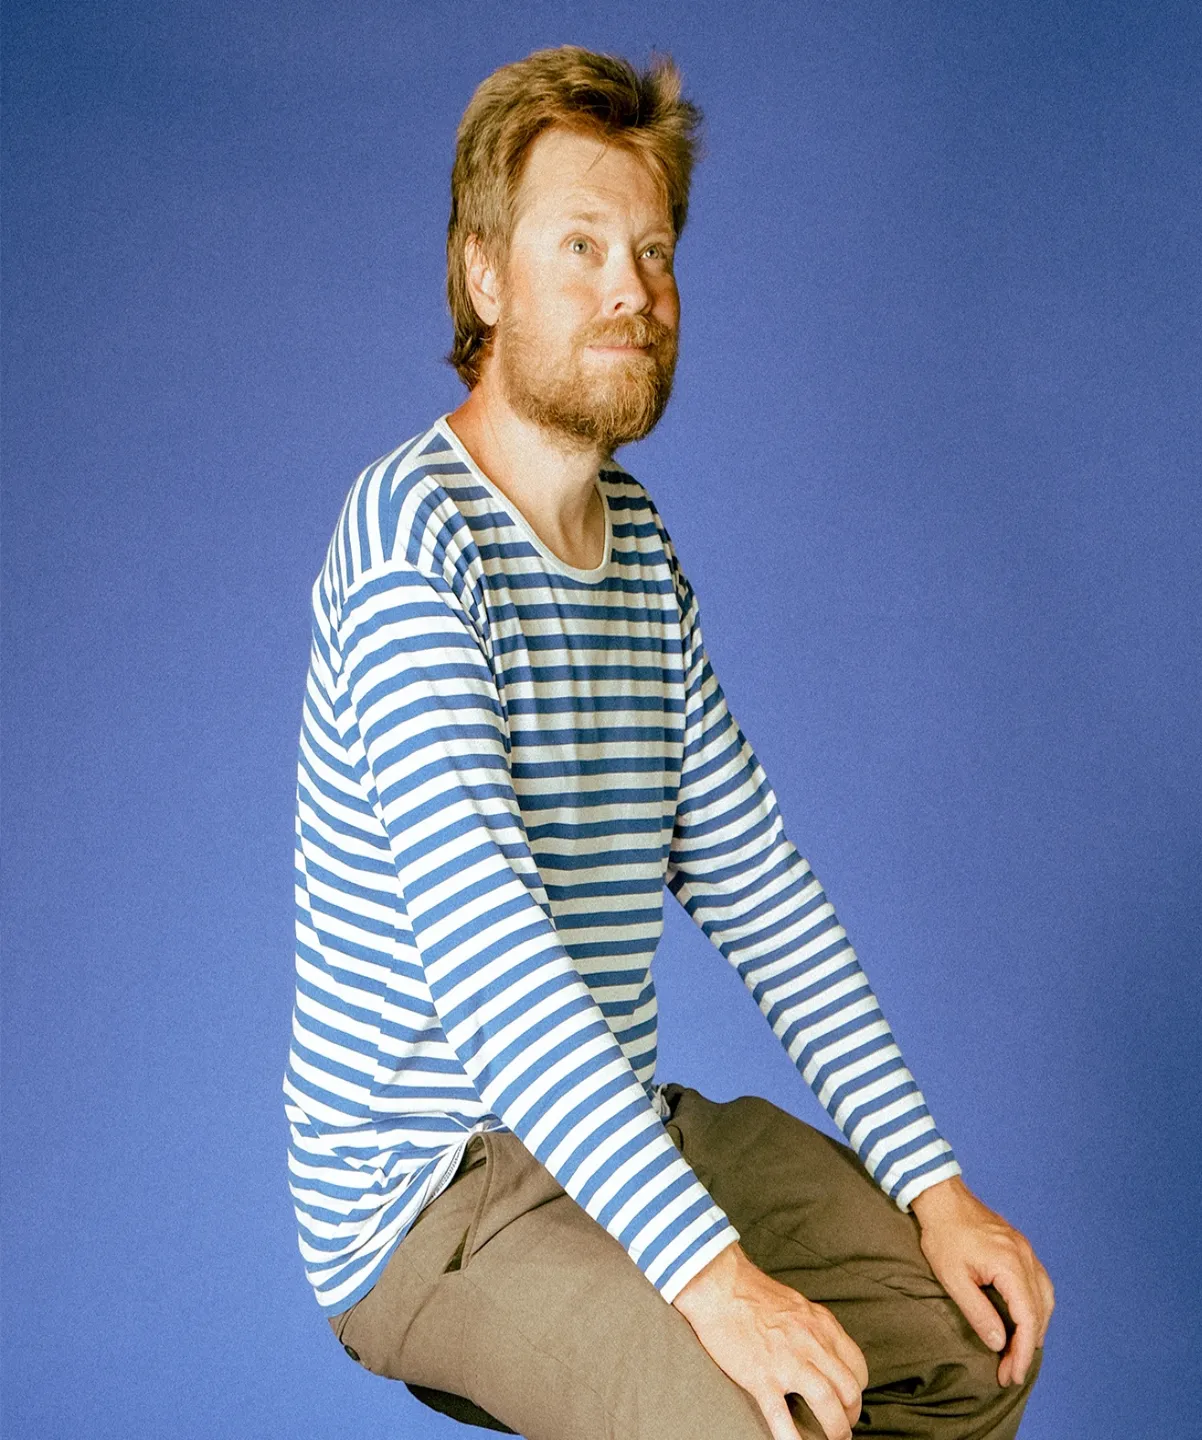
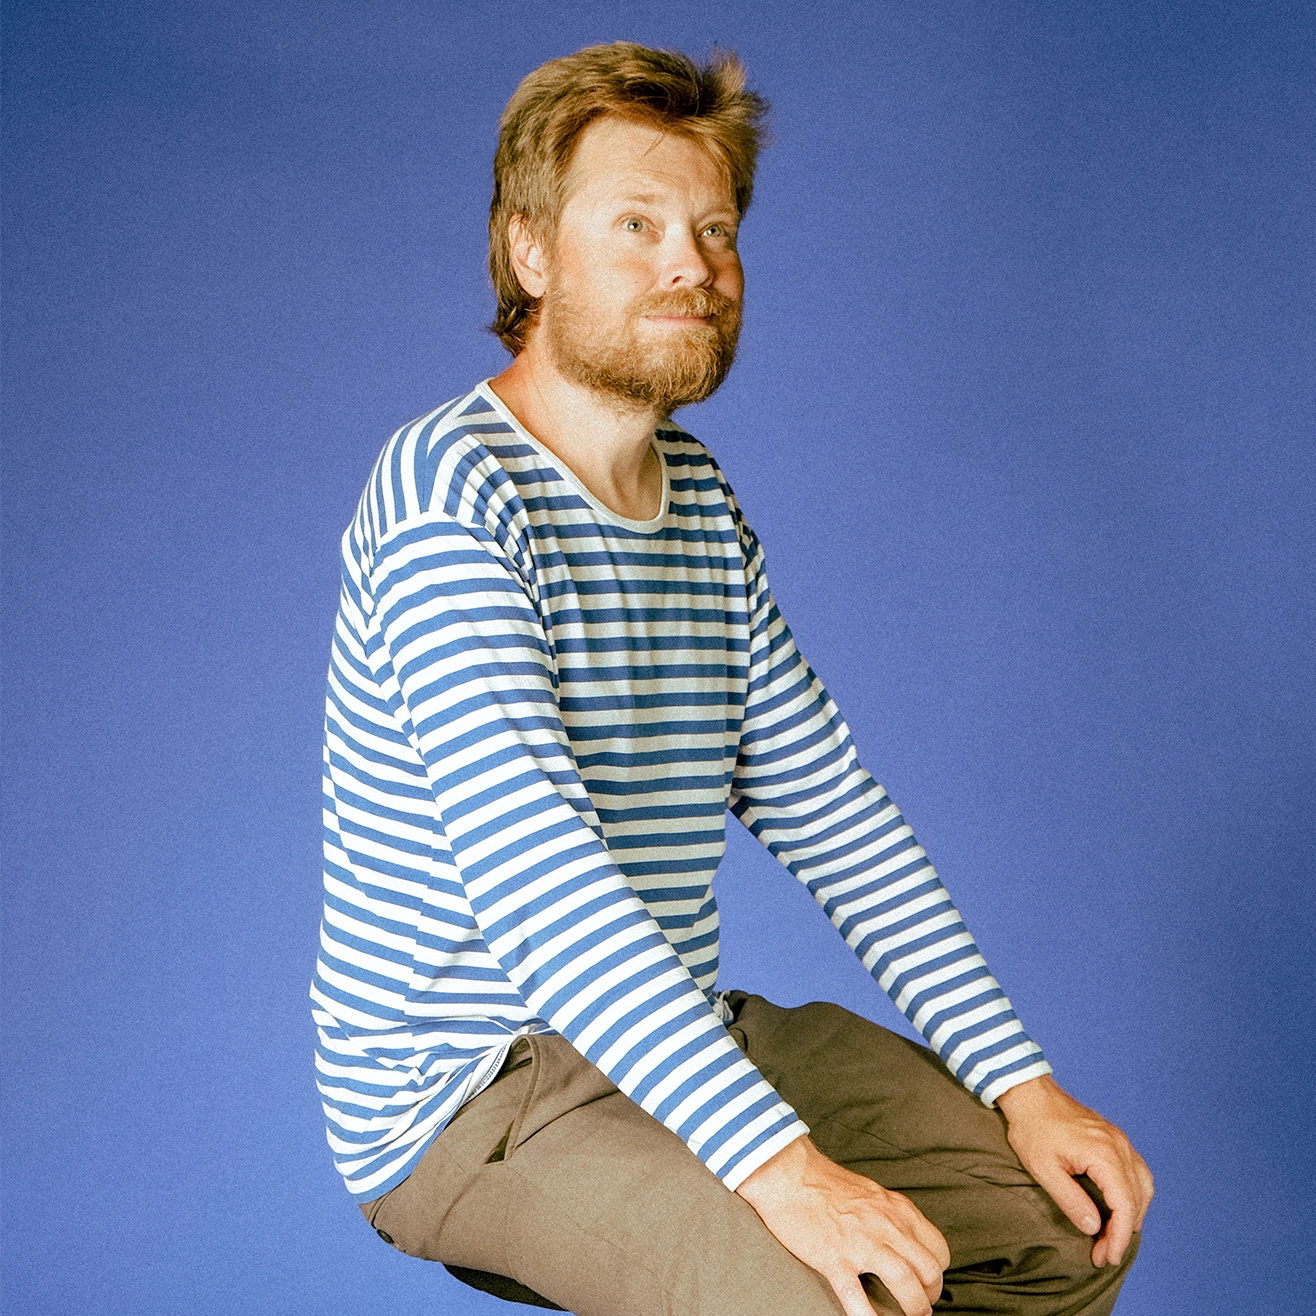
adjusted project images

diff --git a/src/pages/Projects/ProjectDetails/_projectdetails.scss b/src/pages/Projects/ProjectDetails/_projectdetails.scss
@@ -133,21 +133,9 @@ main.projectDetails__wrapper {
 
     img {
       border: 1px solid $virittamo-light-violet;
-      height: 85vh;
-      width: 80%;
       object-fit: cover;
-
-      @include responsive(tablet) {
-        height: 50vh;
-      }
-
-      @include responsive(large_mobile) {
-        height: 35vh;
-      }
-
-      @include responsive(mobile) {
-        height: 25vh;
-      }
+      height: 100%;
+      width: 80%;
     }
   }
 
